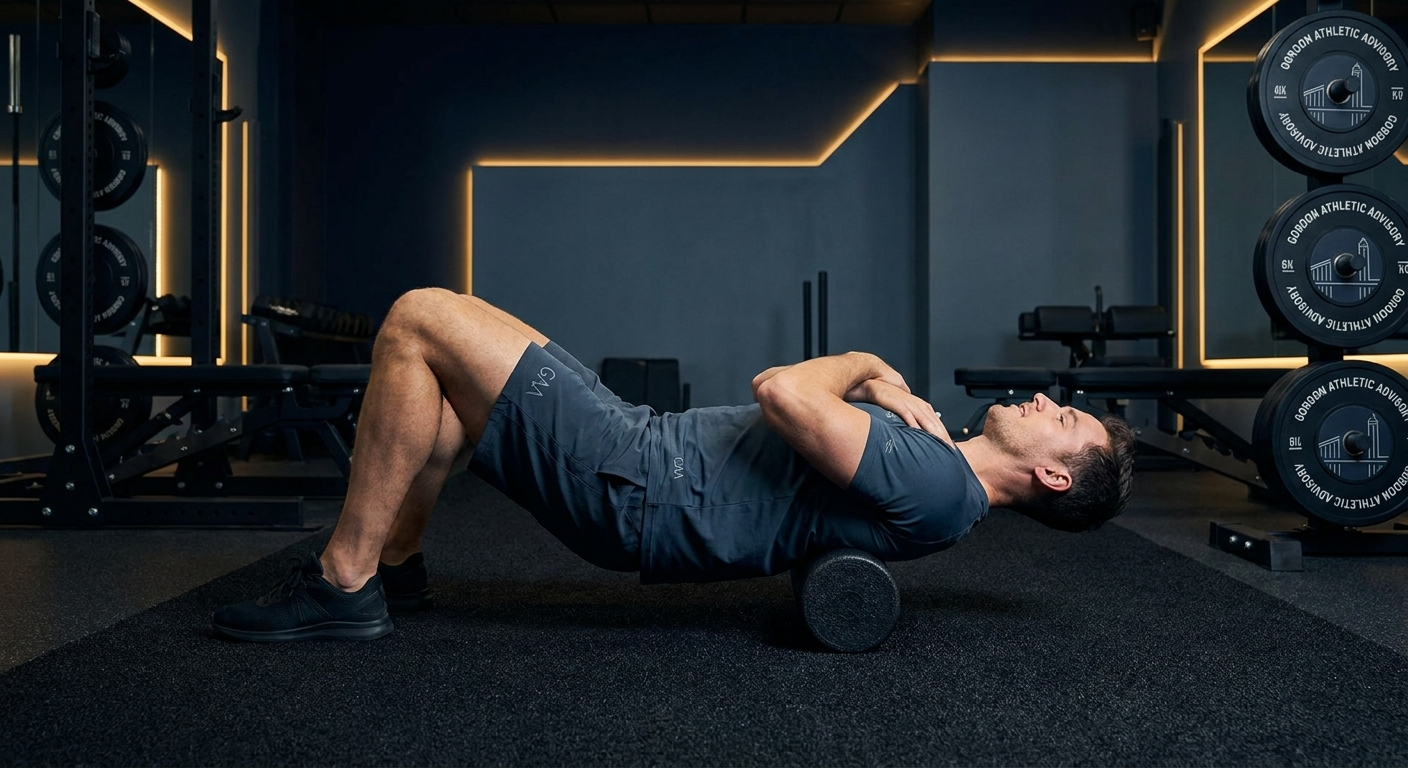
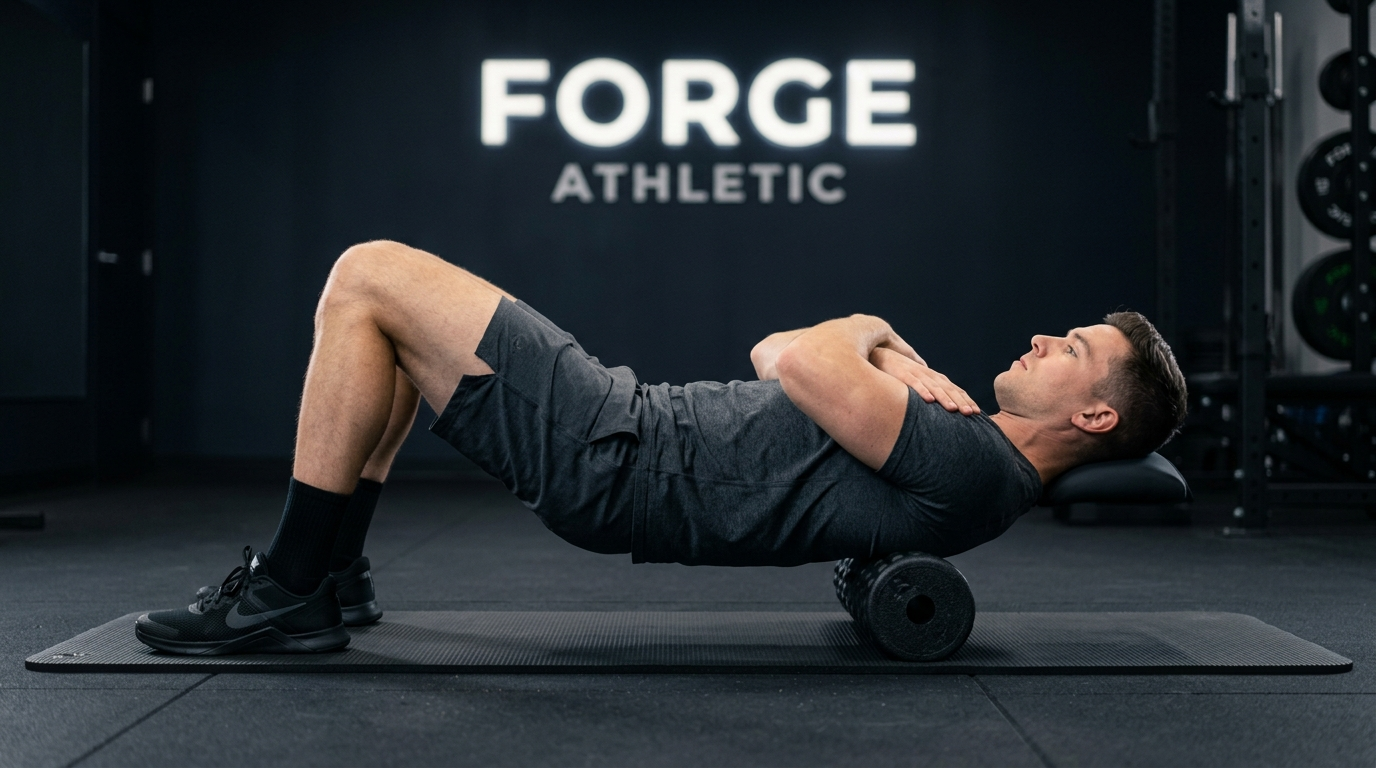
feat(exercise-media): roll out batch 28 Forge Athletic photography for bent elbow lateral raise, smr lateral thigh, smr thoracic spine, medial gastrocnemius activation, and frontal step up to balance

diff --git a/lib/nasm-generated-images.ts b/lib/nasm-generated-images.ts
@@ -150,11 +150,11 @@ export const VERIFIED_GAA_EXERCISE_IMAGES: Record<string, string> = {
   "single leg throw and catch": "/images/exercises/single-leg-throw-and-catch-transverse.jpg",
   "zig zag shuffle": "/images/exercises/zig-zag-shuffle.jpg",
   "activation standing glute max": "/images/exercises/activation-standing-glute-max.jpg",
-  "bent elbow dumbbell lateral raise": "https://img.youtube.com/vi/21NdvM9pY9g/hqdefault.jpg",
-  "self myofascial release smr lateral thigh": "https://img.youtube.com/vi/-Y1ubl6amUg/hqdefault.jpg",
-  "self myofascial release smr thoracic spine": "https://img.youtube.com/vi/xKmqizOqshI/hqdefault.jpg",
-  "activation medial gastrocnemius": "https://img.youtube.com/vi/gipvE9-iSzU/hqdefault.jpg",
-  "step up to balance frontal": "https://img.youtube.com/vi/fVRKGAp1iHw/hqdefault.jpg",
+  "bent elbow dumbbell lateral raise": "/images/exercises/bent-elbow-dumbbell-lateral-raise.jpg",
+  "self myofascial release smr lateral thigh": "/images/exercises/self-myofascial-release-smr-lateral-thigh.jpg",
+  "self myofascial release smr thoracic spine": "/images/exercises/self-myofascial-release-smr-thoracic-spine.jpg",
+  "activation medial gastrocnemius": "/images/exercises/activation-medial-gastrocnemius.jpg",
+  "step up to balance frontal": "/images/exercises/step-up-to-balance-frontal.jpg",
   "alternating dumbbell bench press": "https://img.youtube.com/vi/wOa4YyxyiKI/hqdefault.jpg",
   "barbell bicep curl": "/images/exercises/barbell-bicep-curl.jpg",
   "romanian deadlift": "/images/exercises/dumbbell-romanian-deadlift.jpg",
@@ -673,6 +673,16 @@ const EXERCISE_ALIAS_MAP: Record<string, string> = {
   'standing glute max activation': 'activation standing glute max',
   'standing glute kickback': 'activation standing glute max',
   'standing banded glute kickback': 'activation standing glute max',
+  'bent-elbow dumbbell lateral raise': 'bent elbow dumbbell lateral raise',
+  'bent elbow lateral raise': 'bent elbow dumbbell lateral raise',
+  'foam roll it band': 'self myofascial release smr lateral thigh',
+  'foam roll tfl': 'self myofascial release smr lateral thigh',
+  'foam roll thoracic spine': 'self myofascial release smr thoracic spine',
+  'foam roll upper back': 'self myofascial release smr thoracic spine',
+  'medial gastrocnemius activation': 'activation medial gastrocnemius',
+  'standing medial calf raise': 'activation medial gastrocnemius',
+  'frontal step up to balance': 'step up to balance frontal',
+  'lateral step up to balance': 'step up to balance frontal',
 }
 
 const GAA_IMAGE_CACHE = new Map<string, string | null>()

diff --git a/lib/clinical-kinetic-warmup.test.ts b/lib/clinical-kinetic-warmup.test.ts
@@ -53,7 +53,7 @@ describe('Clinical Kinetic Warmup & OHSA Integration', () => {
 
     // Cooldown Movements
     expect(resolveGaaExerciseImage('self myofascial release smr quadriceps')).toBe('https://img.youtube.com/vi/vUzmXO56jDI/hqdefault.jpg')
-    expect(resolveGaaExerciseImage('self myofascial release smr thoracic spine')).toBe('https://img.youtube.com/vi/xKmqizOqshI/hqdefault.jpg')
+    expect(resolveGaaExerciseImage('self myofascial release smr thoracic spine')).toBe('/images/exercises/self-myofascial-release-smr-thoracic-spine.jpg')
     expect(resolveGaaExerciseImage('static latissimus dorsi ball stretch')).toBe('/images/exercises/static-latissimus-dorsi-ball-stretch.jpg')
     expect(resolveGaaExerciseImage('static 90 90 hamstring stretch')).toBe('https://img.youtube.com/vi/h_yZV27H684/hqdefault.jpg')
 
